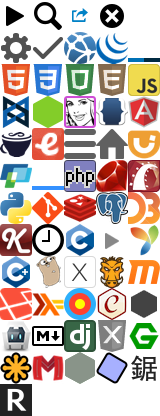
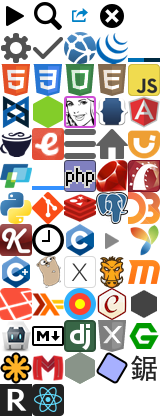
Add React documentation

Changed region(s): [[0.1875, 0.9062, 0.4062, 1.0]]

diff --git a/assets/stylesheets/global/_icons.scss b/assets/stylesheets/global/_icons.scss
@@ -73,3 +73,4 @@
 ._icon-phpunit:before       { background-position: -3rem -11rem; }
 ._icon-nokogiri:before      { background-position: -4rem -11rem; }
 ._icon-rethinkdb:before     { background-position: 0 -12rem; }
+._icon-react:before         { background-position: -1rem -12rem; }

diff --git a/assets/stylesheets/pages/_react.scss b/assets/stylesheets/pages/_react.scss
@@ -1,0 +1,8 @@
+._react {
+  > h2 { @extend %block-heading; }
+  > h3 { @extend %block-label, %label-blue; }
+  > h4 { font-size: 1em; }
+
+  code { @extend %label; }
+  blockquote { @extend %note; }
+}

diff --git a/assets/stylesheets/application.css.scss b/assets/stylesheets/application.css.scss
@@ -57,6 +57,7 @@
         'pages/phpunit',
         'pages/postgres',
         'pages/rdoc',
+        'pages/react',
         'pages/redis',
         'pages/requirejs',
         'pages/rethinkdb',

diff --git a/assets/stylesheets/components/_page.scss b/assets/stylesheets/components/_page.scss
@@ -15,6 +15,7 @@
 
   iframe {
     display: block;
+    margin-bottom: 1em;
     padding: 1px;
     border: 1px dotted $boxBorder;
     border-radius: 3px;

diff --git a/lib/docs/filters/react/entries.rb b/lib/docs/filters/react/entries.rb
@@ -1,0 +1,34 @@
+module Docs
+  class React
+    class EntriesFilter < Docs::EntriesFilter
+      API_SLUGS = %w(
+        top-level-api
+        component-api
+        component-specs
+      )
+
+      def get_name
+        at_css('h1').child.content
+      end
+
+      def get_type
+        link = at_css('.nav-docs-section .active')
+        section = link.ancestors('.nav-docs-section').first
+        section.at_css('h3').content
+      end
+
+      def additional_entries
+        return [] unless API_SLUGS.include?(slug)
+
+        css('.inner-content h3, .inner-content h4').map do |node|
+          name = node.content
+          name.remove! %r{[#\(\)]}
+          name.remove! %r{\w+\:}
+          id = node.at_css('.anchor')['name']
+          type = slug.include?('component') ? 'Component' : 'React'
+          [name, id, type]
+        end
+      end
+    end
+  end
+end

diff --git a/lib/docs/filters/react/clean_html.rb b/lib/docs/filters/react/clean_html.rb
@@ -1,0 +1,31 @@
+module Docs
+  class React
+    class CleanHtmlFilter < Filter
+      def call
+        @doc = at_css('.inner-content')
+
+        if root_page?
+          at_css('h1').content = 'React Documentation'
+        end
+
+        css('.docs-prevnext', '.hash-link', '.edit-page-link').remove
+
+        css('a.anchor').each do |node|
+          node.parent['id'] = node['name']
+        end
+
+        css('.highlight').each do |node|
+          node.name = 'pre'
+          node['data-lang'] = node.at_css('[data-lang]')['data-lang']
+          node.content = node.content
+        end
+
+        css('blockquote > p:first-child').each do |node|
+          node.remove if node.content.strip == 'Note:'
+        end
+
+        doc
+      end
+    end
+  end
+end

diff --git a/lib/docs/scrapers/react.rb b/lib/docs/scrapers/react.rb
@@ -1,0 +1,23 @@
+module Docs
+  class React < UrlScraper
+    self.name = 'React'
+    self.type = 'react'
+    self.version = '0.12.2'
+    self.base_url = 'http://facebook.github.io/react/docs/'
+    self.root_path = 'getting-started.html'
+
+    html_filters.push 'react/entries', 'react/clean_html'
+
+    options[:container] = '.documentationContent'
+
+    options[:skip] = %w(
+      videos.html
+      complementary-tools.html
+      examples.html)
+
+    options[:attribution] = <<-HTML
+      &copy; 2013&ndash;2014 Facebook Inc.<br>
+      Licensed under the Creative Commons Attribution 4.0 International Public License.
+    HTML
+  end
+end
